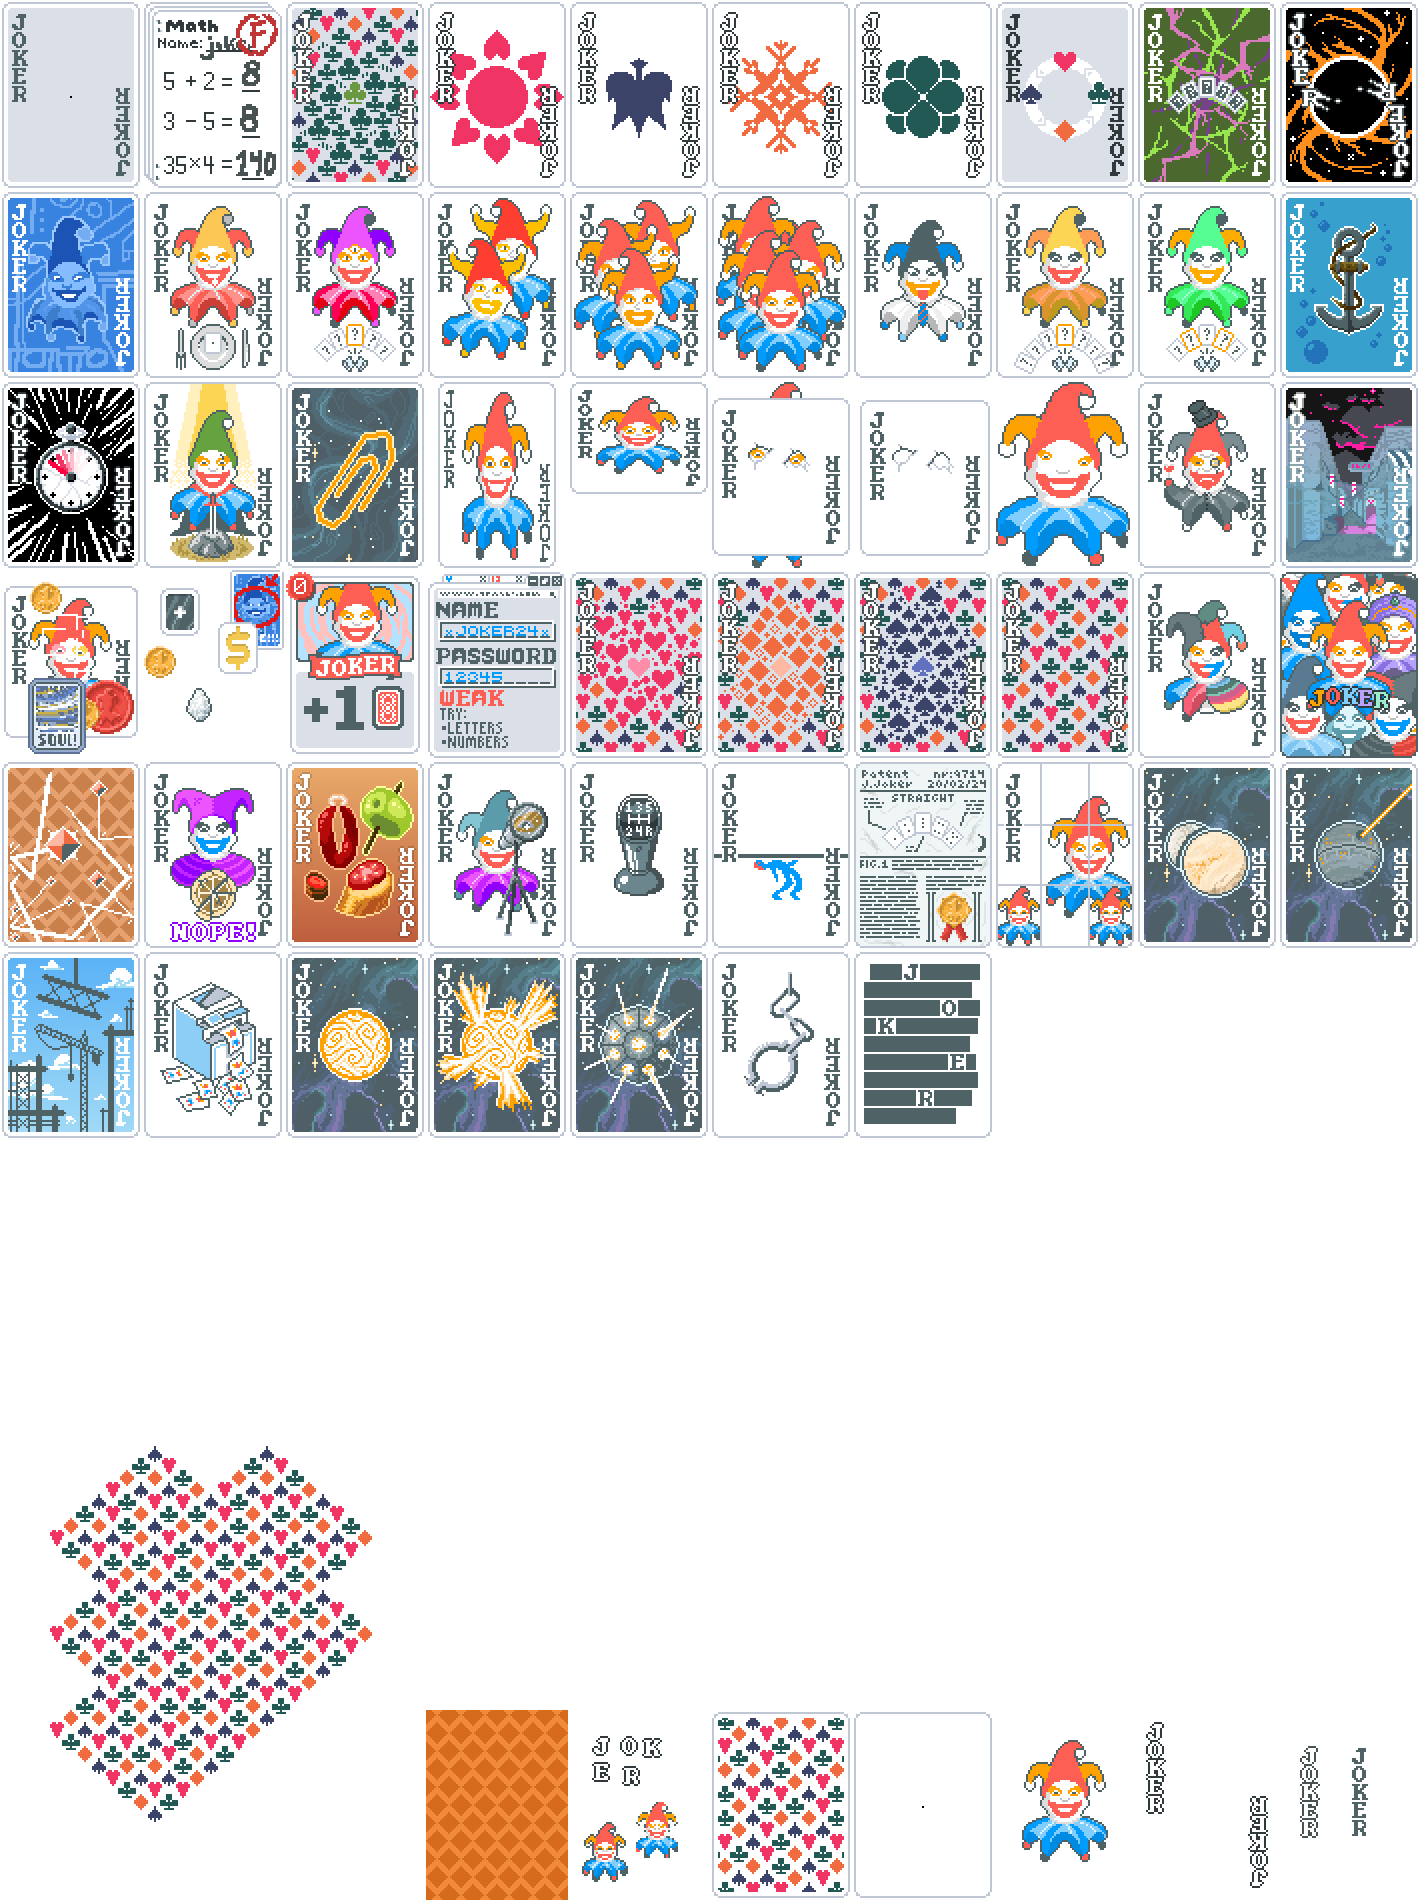
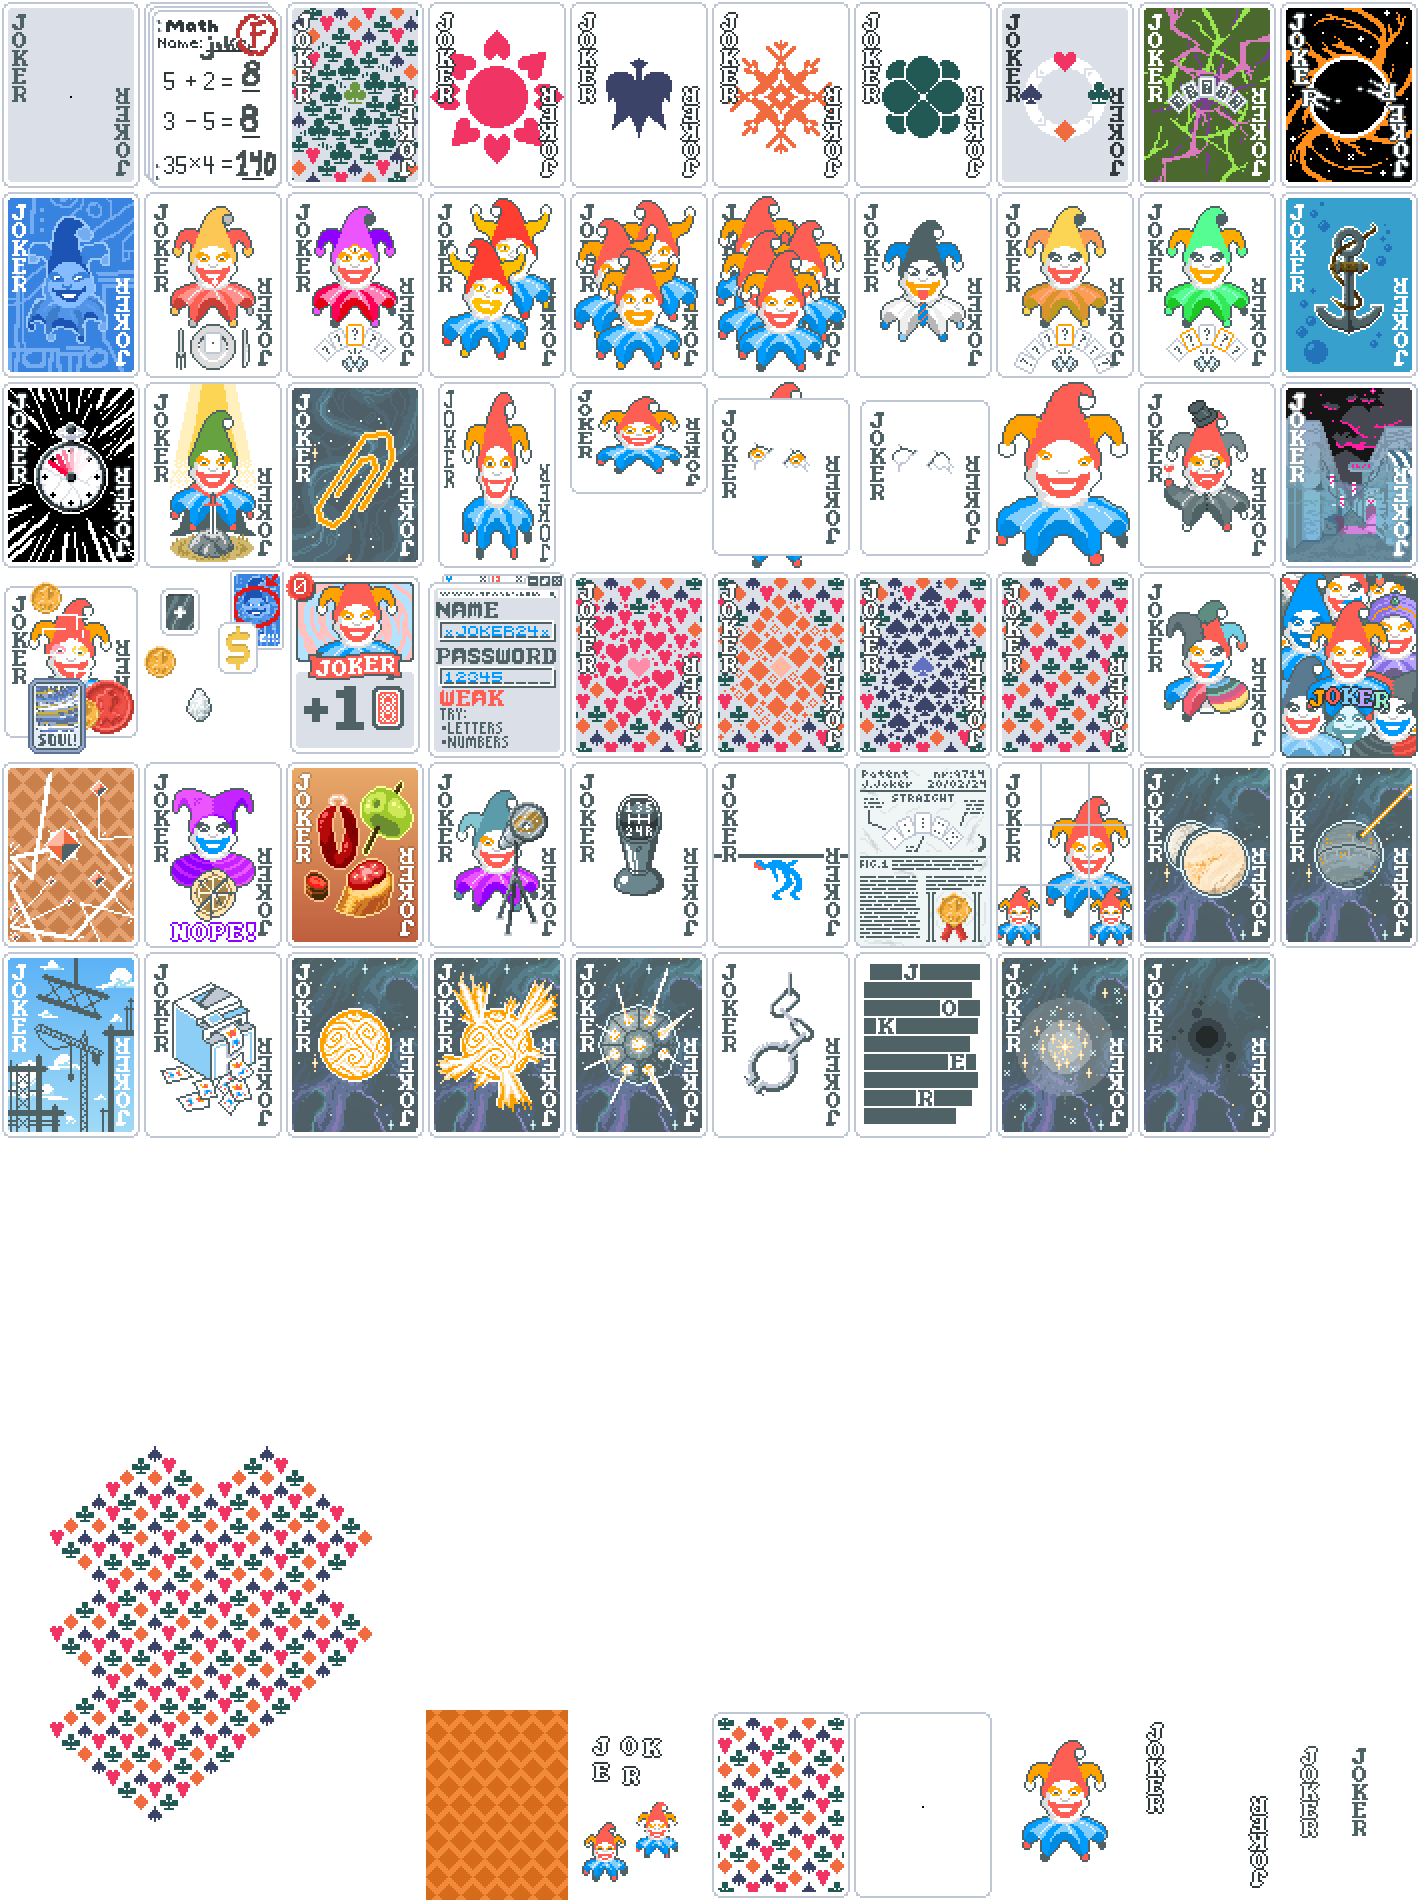
Add Stellar Void and Cluster

Changed region(s): [[0.6817, 0.4968, 0.8986, 0.6211]]

diff --git a/web/addjokers.js b/web/addjokers.js
@@ -462,6 +462,22 @@ let jokers = [
     image_url: "img/j/shackles.png",
     rarity: "Common"
   },
+  {
+    name: "Stellar Void",
+    text: [
+      "{C:mult}+2{} Mult per {C:attention}poker hand{} you have never played",
+    ],
+    image_url: "img/j/stellar_void.png",
+    rarity: "Common"
+  },
+  {
+    name: "Stellar Cluster",
+    text: [
+      "{C:mult}+3{} Mult per different {C:attention}poker hand{} you have played",
+    ],
+    image_url: "img/j/stellar_cluster.png",
+    rarity: "Common"
+  },
 
   // {
   //   name: "",
